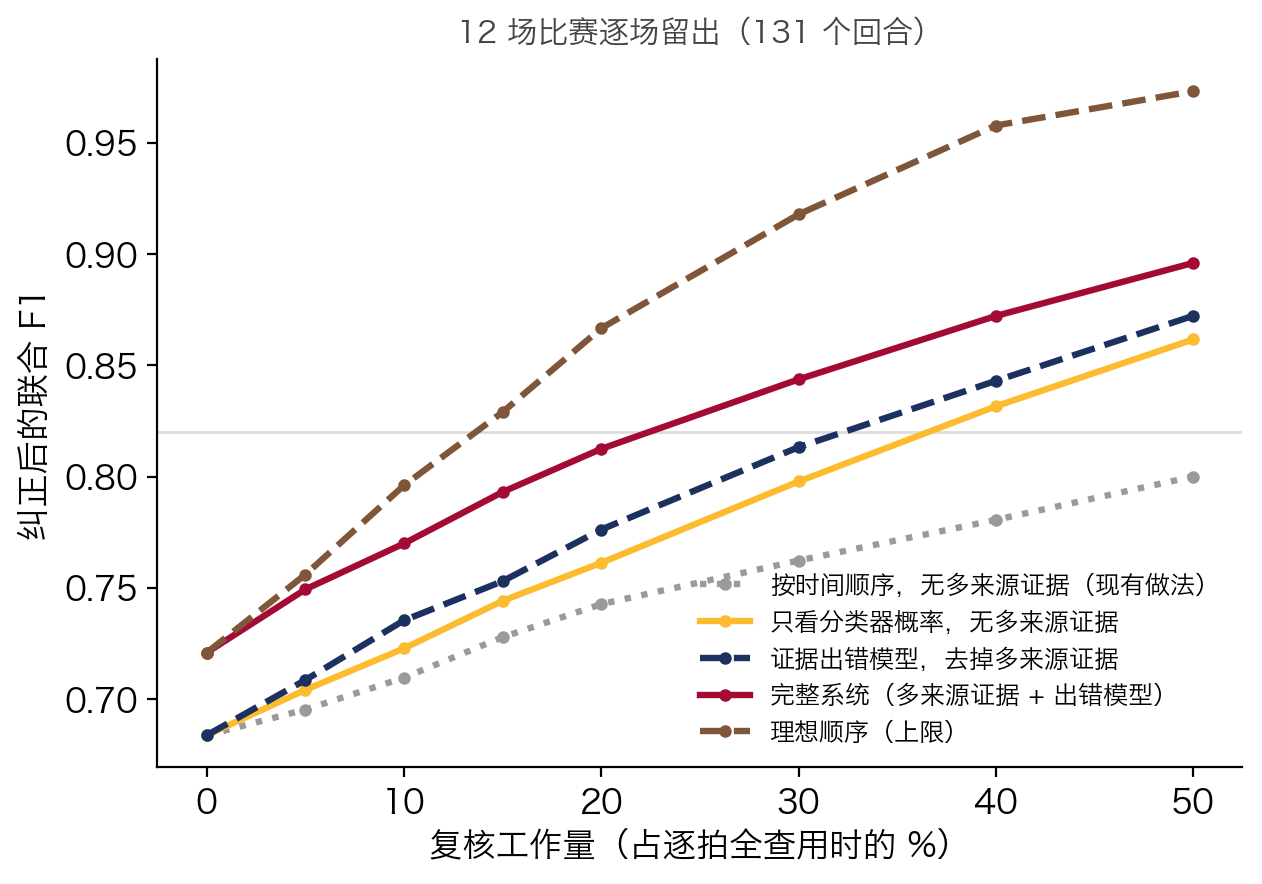
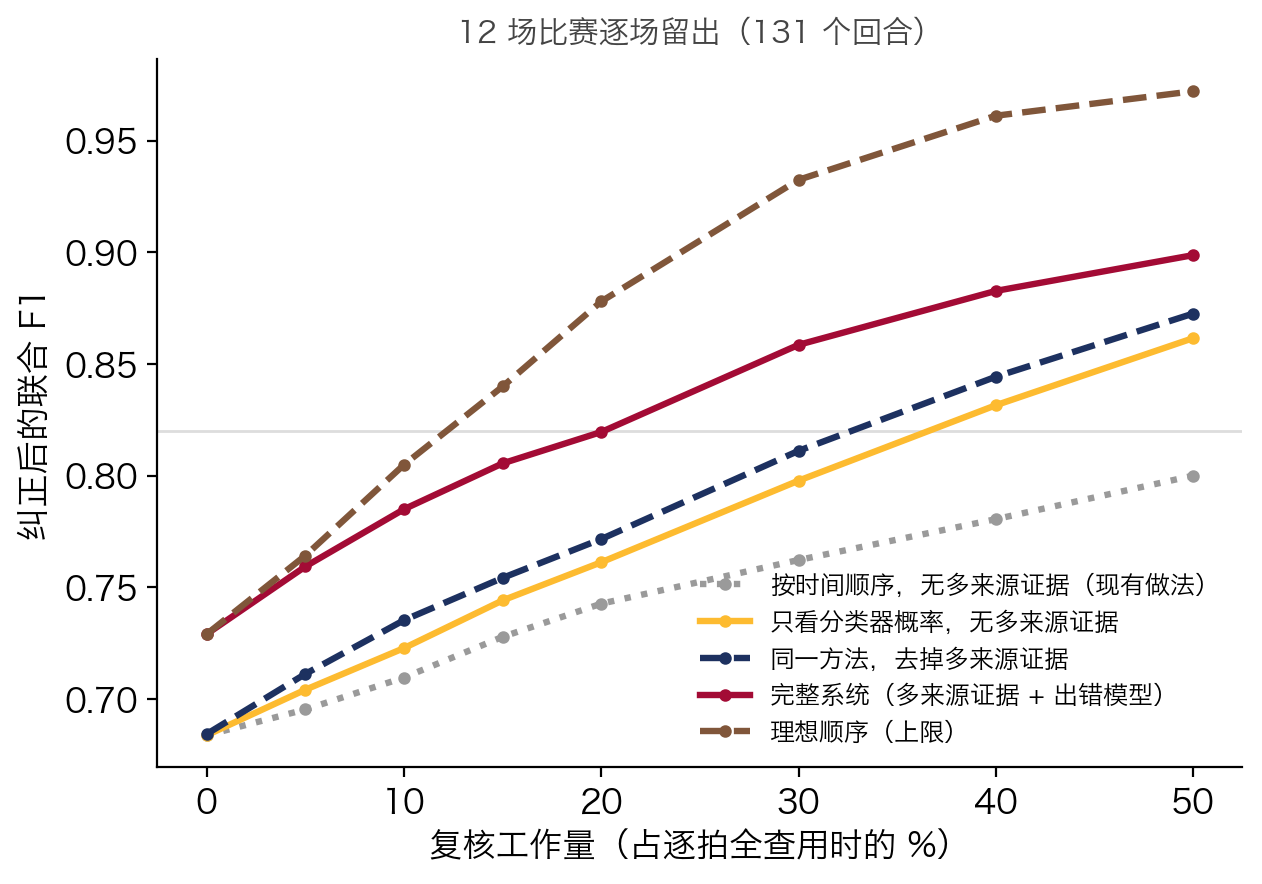
BFMD stroke head as error evidence and a second automatic check before review
- review.py: BST head-input features (BST-0 + BST-CG-AP) and a BFMD stroke-type head
  trained per fold on matches the clip never belongs to (REVIEW_TYPEHEAD=2: evidence for
  the error models only; =1 also in the type model); auto_pass drops likely false hits
  and adds likely real candidates before review, and moved items keep the probability
  that moved them; frozen bundles carry the head and the auto-pass threshold
- verify.py: optional head features in the type model (REVIEW_TYPEHEAD=1)
- review page: auto check on load, "removed/added" counts, "maybe wrongly removed" items
- README: 12-match results of the new combination and the multi-source ablation

diff --git a/static/review.html b/static/review.html
@@ -55,7 +55,7 @@ video{display:block;width:100%;border-radius:12px;background:#183126;aspect-rati
   <div class="stat"><b id="sReviewed">0</b>已核对</div>
   <div class="stat"><b id="sSeconds">0 秒</b>估计用时</div>
   <div class="stat"><b id="sExpected">–</b>预计剩余错误（拍）</div>
-  <div class="stat"><b id="sLog">–</b>记录中的击球</div>
+  <div class="stat"><b id="sLog">–</b>记录中的击球<small id="sAuto" class="muted" style="display:block;font-size:12px"></small></div>
   <div class="stat ref" id="sRef" hidden></div>
 </div>
 <div id="err" role="alert"></div>
@@ -107,10 +107,10 @@ async function loadClips(){const d=await api('/api/review');const c=$('clip');d.
   const q=new URLSearchParams(location.search),want=q.get('clip');if(want)c.value=want;$('research').checked=q.has('research');await load()}
 async function load(){$('err').textContent='';$('evidence').hidden=true;sel=null;$('sExpected').textContent='加载中…';
   try{S=await api('/api/review/'+$('clip').value);$('video').src=S.clip.video;render();if(S.queue.length)select(S.queue[0],false)}catch(e){$('err').textContent=e.message}}
-function render(){$('sReviewed').textContent=S.reviewed;$('sSeconds').textContent=S.review_seconds+' 秒';$('sExpected').textContent=S.expected_errors;$('sLog').textContent=S.log_size;
+function render(){$('sReviewed').textContent=S.reviewed;$('sSeconds').textContent=S.review_seconds+' 秒';$('sExpected').textContent=S.expected_errors;$('sLog').textContent=S.log_size;$('sAuto').textContent=S.auto&&(S.auto.removed||S.auto.added)?`自动复查已删 ${S.auto.removed}、补 ${S.auto.added}`:'';
   $('sRef').hidden=!$('research').checked;$('sRef').textContent=`与 BFMD 参考答案对比：联合 F1 = ${S.reference.joint_f1}`;
   const q=S.queue.slice(0,8).map(i=>S.items[i]);
-  $('queue').innerHTML=q.length?q.map(e=>`<li data-i="${e.index}" class="${sel===e.index?'sel':''}"><span>${e.time.toFixed(1)}s · ${e.inlog?nm(e.label):'可能漏掉的一拍'}</span><span class="chip ${e.inlog?(e.reason==='球种可能判错'?'type':e.reason==='时刻可能记偏'?'time':''):'miss'}">${e.reason}</span></li>`).join(''):'<li>没有需要核对的了</li>';
+  $('queue').innerHTML=q.length?q.map(e=>`<li data-i="${e.index}" class="${sel===e.index?'sel':''}"><span>${e.time.toFixed(1)}s · ${e.inlog?nm(e.label):e.auto==='removed'?'自动复查删去的一拍':'可能漏掉的一拍'}</span><span class="chip ${e.inlog?(e.reason==='球种可能判错'?'type':e.reason==='时刻可能记偏'?'time':''):'miss'}">${e.reason}</span></li>`).join(''):'<li>没有需要核对的了</li>';
   $('queue').querySelectorAll('li[data-i]').forEach(li=>li.onclick=()=>select(+li.dataset.i));
   drawTimeline();if(sel!==null)showEvidence()}
 function drawTimeline(){const svg=$('timeline'),W=svg.clientWidth||800,rows=Object.keys(S.routes),H=46+rows.length*12+18,L=86;svg.setAttribute('viewBox',`0 0 ${W} ${H}`);svg.setAttribute('height',H);
@@ -127,7 +127,7 @@ function play(t){const v=$('video');clearInterval(loop);v.currentTime=Math.max(0
 function bars(list){return list.map(([k,p])=>`<div><span>${nm(k)}</span><span>${Math.round(p*100)}%</span></div>`).join('')||'<div class="muted">无</div>'}
 function showEvidence(){const e=S.items[sel];$('evidence').hidden=false;
   const seq=S.items.filter(x=>x.inlog).sort((a,b)=>a.time-b.time),pos=seq.findIndex(x=>x.index===e.index),prev=seq.filter(x=>x.time<e.time).pop(),next=seq.find(x=>x.time>e.time);
-  $('evTitle').innerHTML=`${e.time.toFixed(2)}s · ${e.inlog?`第 ${pos+1} 拍，判为「${nm(e.label)}」`:'可能漏掉的一拍'} · ${e.hitter==='near'?'近端':'远端'}球员 ${e.locked?'<span class="chip">已核对</span>':e.reason?`<span class="chip">${e.reason}</span>`:''}`;
+  $('evTitle').innerHTML=`${e.time.toFixed(2)}s · ${e.inlog?`第 ${pos+1} 拍，判为「${nm(e.label)}」${e.auto==='added'?'（自动复查补上）':''}`:e.auto==='removed'?'自动复查删去的一拍':'可能漏掉的一拍'} · ${e.hitter==='near'?'近端':'远端'}球员 ${e.locked?'<span class="chip">已核对</span>':e.reason?`<span class="chip">${e.reason}</span>`:''}`;
   const P=(t,p)=>p==null?'':`<div class="prob"><span style="width:118px">${t}</span><span class="track"><span class="fill" style="display:block;width:${Math.round(p*100)}%"></span></span><span>${Math.round(p*100)}%</span></div>`;
   $('evProbs').innerHTML=e.inlog?P('不是击球的可能',e.p_false)+P('其中：时刻记偏',e.p_mistimed)+P('球种判错的可能',e.p_type):P('确实有一拍的可能',e.p_real);
   $('evDets').innerHTML=`<span class="muted" style="width:100%">${Object.keys(e.detectors).length} 个找拍器中 ${e.support} 个在这里报了击球</span>`+Object.entries(e.detectors).map(([k,v])=>{const[p,m]=k.split('__');return `<span class="det ${v?'on':''}">${p==='tn3'?'TNv3':'RV'} ${RNAMES[m]||m}</span>`}).join('');

diff --git a/benchmarks/bfmd/review.py b/benchmarks/bfmd/review.py
@@ -37,6 +37,43 @@ def cached_candidates(clip):
         _CANDS[clip['clip_id']]=cs
     return copy.deepcopy(_CANDS[clip['clip_id']])
 
+TYPEHEAD=os.environ.get('REVIEW_TYPEHEAD','0') in ('1','2')  # BFMD stroke-type head on BST features: 1 in the type model and the error models, 2 error models only
+_EMB={}
+def bst_embeddings(clip):
+    """Input of the BST-0 and BST-CG-AP classification heads (300 + 300) in a +-1 s window: at every candidate frame, and at every
+    typed reference contact (the latter only to train the BFMD head on training matches)."""
+    k=clip['clip_id']
+    if k not in _EMB:
+        from specialist_bst import SpecialistBST
+        from benchmarks.bfmd.study_hits import calibration
+        pf=STUDY/'perception'/k;dense=read(pf/'dense_pose.json');ball=read(pf/'tracknetv3/trajectory.json')
+        m=SpecialistBST(dense,ball,calibration(read(STUDY/'court_review.json')['matches'][clip['youtube_id']]['corners_TL_TR_BL_BR']));grab={}
+        hooks=[m.model.mlp_head.register_forward_pre_hook(lambda mod,inp:grab.__setitem__(0,inp[0][0].detach().numpy().copy())),
+               m.full_model.mlp_head.register_forward_pre_hook(lambda mod,inp:grab.__setitem__(1,inp[0][0].detach().numpy().copy()))]
+        n=len(dense['frames'])
+        def emb(f):
+            f=min(max(int(f),0),n-1);v,_=m.inputs({'frame_index':f,'start_frame':max(0,f-30),'end_frame':min(n-1,f+30),'peak_time':dense['frames'][f]['source_time']})
+            m.predict(v);return np.r_[grab[0],grab[1]]
+        mm=next(x for x in read(_R.parent/'03_数据/独立基准/BFMD/manifest.json')['matches'] if x['match_id']==clip['match_id'])
+        lo=clip['offset_seconds'];hi=lo+clip['duration_seconds']
+        _EMB[k]=({x['frame']:emb(x['frame']) for x in _CANDS[k]},[(emb(round((h['time']-lo)*30)),h['label']) for h in mm['hits'] if lo<=h['time']<hi and h['label'] in TYPES])
+        for h in hooks:h.remove()
+    return _EMB[k]
+
+def fit_head(clips):
+    """BFMD stroke-type head (softmax) on BST features at the reference contacts of the given clips."""
+    rows=[r for c in clips for r in bst_embeddings(c)[1]]
+    return Softmax().fit([e for e,_ in rows],[t for _,t in rows],l2=10.,steps=600)
+
+def attach_heads(clips,data,m,cache):
+    """Head probabilities on every candidate; a clip of match j is scored by a head that saw neither j nor the held-out match m."""
+    for c in clips:
+        j=c['youtube_id'];excl=frozenset({m,j})
+        if excl not in cache:cache[excl]=fit_head([d for d in clips if d['youtube_id'] not in excl])
+        E=bst_embeddings(c)[0]
+        for cs in (_CANDS[c['clip_id']],data[c['clip_id']][0]):
+            for x,p in zip(cs,proba(cache[excl],[E[x['frame']] for x in cs]) if cs else []):x['head']=p
+
 _ROUTES={}
 def route_types(clip,f):
     """Stroke-type evidence from every detector route that fired within +-3 frames: mean BST probabilities and each route's top type."""
@@ -184,7 +221,8 @@ def evidence_x(r,x):
     hitter alternation, timing evidence (sound / racket away from the logged moment) and stroke-type agreement across routes."""
     post=x.get('post');post=post if post is not None else np.full(len(TYPES),1/len(TYPES))
     lab=TYPES.index(x['label']) if x.get('label') else int(np.argmax(post));rm,rt=x['rtype']
-    return r.features(x)+[x.get('viol',0.),x['tev'][1],x['tev'][2],float(-(post*np.log(post+1e-9)).sum()),float(rm[lab]),float(np.mean([t==lab for t in rt])) if rt else .5]
+    head=[float(x['head'][lab]),float(int(np.argmax(x['head']))==lab)] if x.get('head') is not None else []
+    return r.features(x)+[x.get('viol',0.),x['tev'][1],x['tev'][2],float(-(post*np.log(post+1e-9)).sum()),float(rm[lab]),float(np.mean([t==lab for t in rt])) if rt else .5]+head
 
 # evidence_x columns grouped for ablations
 RALLY_COLS=(8,16,17,18,19,23)          # gap to neighbours, same-side neighbours, rhythm, hitter-alternation violation
@@ -226,6 +264,15 @@ def crossfit_error_models(train_clips,data,types,byid):
         rallies+=[Rally(c,model,th,tmodel,flat,0) for c in train_clips if c['youtube_id']==j]
     return {'all':ErrorModels().fit(rallies),'no rally structure':ErrorModels(RALLY_COLS).fit(rallies),'no new sources':ErrorModels(SOURCE_COLS).fit(rallies)}
 
+def error_probs(r,x,E,f,up,timing=True):
+    """(P false, P mistimed, P wrong type | real, P real if left out) for candidate x; items moved by auto_pass keep the probability that moved them."""
+    auto=x.get('auto')
+    if x['inlog']:
+        pf=up(auto[1]) if auto and auto[0]=='added' else up(E.p('fp',f))
+        pm=min(pf,up(E.p('mt',f))) if timing and not auto else 0.
+        return pf,pm,up(E.p('ty',f)),None
+    return None,None,None,up(auto[1]) if auto and auto[0]=='removed' else up(E.p('miss',f))
+
 def priority(r,x,policy,em=None):
     """Expected joint-F1 gain per second. 'confidence' = typical tool: logged hits only, lowest confidence first.
     'gain' = calibrated agent confidences (they already fuse the multi-detector evidence), F1-weighted gains,
@@ -235,10 +282,9 @@ def priority(r,x,policy,em=None):
         return (1-min(x['p_hit'],max(x['post'])))/COST['hit'] if x['inlog'] else None
     if policy=='evidence':  # error models over all evidence; reviewed neighbours raise / lower the odds
         up=lambda q:x['odds']*q/(1-q+1e-9)/(1+x['odds']*q/(1-q+1e-9));E=em['E'];f=evidence_x(r,x)
-        if x['inlog']:
-            pf=up(E.p('fp',f));pm=min(pf,up(E.p('mt',f))) if r.retime and not em.get('no_timing') else 0.;pt=up(E.p('ty',f))
-            return (pm*GAIN['retime']+(pf-pm)*GAIN['false']+(1-pf)*pt*GAIN['type'])/(COST['hit']+pm*COST['retime'])
-        return up(E.p('miss',f))*GAIN['miss']/COST['miss']
+        pf,pm,pt,pr=error_probs(r,x,E,f,up,r.retime and not em.get('no_timing'))
+        if x['inlog']:return (pm*GAIN['retime']+(pf-pm)*GAIN['false']+(1-pf)*pt*GAIN['type'])/(COST['hit']+pm*COST['retime'])
+        return pr*GAIN['miss']/COST['miss']
     if policy=='single_hit':return 1-min(1.,x['x'][9]) if x['inlog'] else None
     if policy=='single_type':return 1-x['x'][4] if x['inlog'] else None
     if policy=='single':  # typical tool: the detector's own hit score and the classifier's top probability, logged hits only
@@ -256,10 +302,10 @@ def priority(r,x,policy,em=None):
     pm=float(em['miss'].predict([[x['p_hit'],x['racket']]])[0]) if em and em.get('miss') else x['p_hit']  # racket contact evidence for missed hits
     return up(pm)*GAIN['miss']/COST['miss']
 
-def simulate(rallies,policy,em=None,propagate=False):
+def simulate(rallies,policy,em=None,propagate=False,full=None):
     """em: {'lr': {True: odds factor if the reviewed item was wrong, False: if right}} for suspicion propagation."""
     """Review in priority order; return pooled (tp,fp,fn) after spending each GRID share of the full-review cost."""
-    full=sum(len(r.log()) for r in rallies)*COST['hit']
+    full=full or sum(len(r.log()) for r in rallies)*COST['hit']  # override: keep the review budget of the original log
     counts=lambda:tuple(map(sum,zip(*[r.counts() for r in rallies])))
     out=[counts()];spent=0.;g=1
     items=[(r,i) for r in rallies for i,x in enumerate(r.c)]
@@ -333,6 +379,18 @@ def parity_model(rallies):
             if x['inlog'] and r.y[k] is not None:X.append([1-min(x['p_hit'],max(x['post'])),x.get('viol',0.)]);Y.append(float(r.wrong(k)))
     return Logistic().fit(X,Y,l2=1.)
 
+def auto_pass(r,E,th=.5):
+    """Second automatic verification before review: drop logged hits the error models call false, add left-out candidates they call real."""
+    drop=[];add=[]
+    for x in r.c:
+        f=evidence_x(r,x)
+        if x['inlog'] and (q:=E.p('fp',f)-E.p('mt',f))>th:drop.append((x,q))
+        elif not x['inlog'] and (q:=E.p('miss',f))>th:add.append((x,q))
+    # a moved item keeps the probability that moved it: P(real) = 1 - P(spurious) for a dropped hit, P(false) = 1 - P(real) for an added one
+    for x,q in drop:x['inlog']=False;x['auto']=('removed',1-q)
+    for x,q in add:x['inlog']=True;x['auto']=('added',1-q)
+    if drop or add:r.decode()
+
 def run_fold(train_clips,test_clips,model,th,tmodel,lam,E=None):
     flat=np.full((len(TYPES),len(TYPES)),1/len(TYPES))
     tr=[Rally(c,model,th,tmodel,flat,0) for c in train_clips];T=transitions(tr);lr={'lr':suspicion_lr(tr)};mm=miss_model(tr);pm=parity_model(tr);out={'_lr':lr['lr']}
@@ -343,6 +401,11 @@ def run_fold(train_clips,test_clips,model,th,tmodel,lam,E=None):
                             ('evidence - timing in ranking','evidence',{'E':E['all'],'no_timing':True},False)]
     for name,pol,em,prop in runs+[('oracle','oracle',None,False)]:
         out[name]=simulate([Rally(c,model,th,tmodel,T,lam) for c in test_clips],pol,em,prop)
+    if E is not None:  # second automatic pass by the error models, then the same review budget as the original log
+        for name,pol,em in [('auto pass + evidence','evidence',{'E':E['all']}),('auto pass + oracle','oracle',None)]:
+            rs=[Rally(c,model,th,tmodel,T,lam) for c in test_clips];full=sum(len(r.log()) for r in rs)*COST['hit']
+            for r in rs:auto_pass(r,E['all'])
+            out[name]=simulate(rs,pol,em,False,full)
     return out
 
 def f1(c):tp,fp,fn=c;return 2*tp/(2*tp+fp+fn)
@@ -356,13 +419,15 @@ if __name__=='__main__':
         clips=[c for c in read(STUDY/'clips.json')['clips'] if (ROUTES/c['clip_id']/f'{PRIMARY}.json').exists()]
         byid={c['clip_id']:c for c in clips};data={}
         for c in clips:cs=cached_candidates(c);data[c['clip_id']]=(cs,truth_labels(c,cs))
-        types={k:truth_types(byid[k],data[k][0]) for k in byid};bundles={}
+        types={k:truth_types(byid[k],data[k][0]) for k in byid};bundles={};hcache={}
         for m in sorted({c['youtube_id'] for c in clips}):
+            if TYPEHEAD:attach_heads(clips,data,m,hcache)
             train=[c for c in clips if c['youtube_id']!=m];model,th,tmodel=fit_both([c['clip_id'] for c in train],data,types,byid)
             E=crossfit_error_models(train,data,types,byid)['all'];flat=np.full((len(TYPES),)*2,1/len(TYPES))
             tr=[Rally(c,model,th,tmodel,flat,0) for c in train]
             bundles[m]={'hit_model':model.packet(),'threshold':th,'type_model':{'W':tmodel.W.tolist(),'mu':tmodel.mu.tolist(),'sd':tmodel.sd.tolist()},
-                        'error_models':E.packet(),'suspicion_lr':{str(k):v for k,v in suspicion_lr(tr).items()},'train_matches':sorted({c['youtube_id'] for c in train})}
+                        'error_models':E.packet(),'auto_pass':.5,
+                        'head':({'W':hcache[frozenset({m})].W.tolist(),'mu':hcache[frozenset({m})].mu.tolist(),'sd':hcache[frozenset({m})].sd.tolist()} if TYPEHEAD else None),'suspicion_lr':{str(k):v for k,v in suspicion_lr(tr).items()},'train_matches':sorted({c['youtube_id'] for c in train})}
             print('bundle',m,flush=True)
         save(STUDY/'frozen_review_lomo12.json',{'bundles':bundles,'cost':COST,'gain':GAIN,'code_sha256':code_hashes(),
                                                'note':'For clips of match m use bundles[m]: agent and error models fitted on the other 11 matches.'})
@@ -377,13 +442,14 @@ if __name__=='__main__':
                 for x in _CANDS[c['clip_id']]:
                     x['x'][1]=x['x'][10]=x['x'][11]=0.;x['tev']=(x['frame'],0.,0.);x['rtype']=(np.full(len(TYPES),1/len(TYPES)),[])
             cs=cached_candidates(c);data[c['clip_id']]=(cs,truth_labels(c,cs))
-        types={k:truth_types(byid[k],data[k][0]) for k in byid};folds=[]
+        types={k:truth_types(byid[k],data[k][0]) for k in byid};folds=[];hcache={}
         for m in sorted({c['youtube_id'] for c in clips}):
             train=[c for c in clips if c['youtube_id']!=m];test=[c for c in clips if c['youtube_id']==m]
+            if TYPEHEAD:attach_heads(clips,data,m,hcache)
             model,th,tmodel=fit_both([c['clip_id'] for c in train],data,types,byid)
             E=crossfit_error_models(train,data,types,byid)
             folds.append(run_fold(train,test,model,th,tmodel,0,E));print('fold',m,len(test),'clips',flush=True)
-        res=pool(folds);save(STUDY/f"review_lomo12{'_ablate_'+ablate if ablate else ''}{'' if RETIME_ON else '_noretime'}.json",{'grid_share':GRID,'curves':res,'cost':COST,'clips':len(clips),
+        res=pool(folds);save(STUDY/f"review_lomo12{'_ablate_'+ablate if ablate else ''}{'' if RETIME_ON else '_noretime'}{'_typehead'+os.environ['REVIEW_TYPEHEAD'] if TYPEHEAD else ''}.json",{'grid_share':GRID,'curves':res,'cost':COST,'clips':len(clips),
                                                         'per_match':{m:{k:v for k,v in f.items() if not k.startswith('_')} for m,f in zip(sorted({c['youtube_id'] for c in clips}),folds)}})
         print('share         ',' '.join(f'{g:5.2f}' for g in GRID))
         for k,v in res.items():print(f"{k:14s}",' '.join(f'{x:.3f}' for x in v))

diff --git a/benchmarks/bfmd/review_web.py b/benchmarks/bfmd/review_web.py
@@ -23,7 +23,9 @@ def bundle(match):
         b=rv.read(rv.STUDY/'frozen_review_lomo12.json')['bundles'][match]
         m=rv.Logistic();m.w,m.mu,m.sd=(np.array(b['hit_model'][k]) for k in ['w','mu','sd'])
         t=rv.Softmax();t.W,t.mu,t.sd=(np.array(b['type_model'][k]) for k in ['W','mu','sd'])
-        _models[match]={'model':m,'th':b['threshold'],'tmodel':t,'E':rv.ErrorModels.load(b['error_models']),
+        h=None
+        if b.get('head'):h=rv.Softmax();h.W,h.mu,h.sd=(np.array(b['head'][k]) for k in ['W','mu','sd'])
+        _models[match]={'model':m,'th':b['threshold'],'tmodel':t,'E':rv.ErrorModels.load(b['error_models']),'head':h,'auto':b.get('auto_pass'),
                         'lr':{k=='True':v for k,v in b['suspicion_lr'].items()},'trans':np.full((len(rv.TYPES),)*2,1/len(rv.TYPES))}
     return _models[match]
 
@@ -72,7 +74,13 @@ def session(clip_id):
         actions=json.loads(f.read_text())['actions'] if f.exists() else []
         key=(clip_id,len(actions))
         if key not in _cache:
-            m=bundle(c['youtube_id']);r=rv.Rally(c,m['model'],m['th'],m['tmodel'],m['trans'],0)
+            m=bundle(c['youtube_id']);cs=rv.cached_candidates(c);k=c['clip_id']
+            if m['head'] is not None and cs and rv._CANDS[k][0].get('head') is None:  # BFMD stroke-type head on BST features (evidence for the error models)
+                emb=rv.bst_embeddings(c)[0]
+                for x,p in zip(rv._CANDS[k],rv.proba(m['head'],[emb[x['frame']] for x in rv._CANDS[k]])):x['head']=p
+            r=rv.Rally(c,m['model'],m['th'],m['tmodel'],m['trans'],0);before={i for i,x in enumerate(r.c) if x['inlog']}
+            if m['auto'] is not None:rv.auto_pass(r,m['E'],m['auto'])  # second automatic check before the reviewer sees the log
+            after={i for i,x in enumerate(r.c) if x['inlog']};r.auto={'removed':len(before-after),'added':len(after-before)}
             for a in actions:apply(r,a['index'],a['action'],a.get('label'),a.get('time'))
             _cache.clear();_cache[key]=r
         return c,_cache[key],actions
@@ -102,11 +110,11 @@ def evidence(r,i,routes,xy):
     agree={k:any(abs(g-f)<=WIN for g in v) for k,v in routes.items()}
     post=dict(zip(rv.TYPES,x['post'])) if x.get('post') is not None else {}
     up=lambda q:x['odds']*q/(1-q+1e-9)/(1+x['odds']*q/(1-q+1e-9));E=bundle(r.clip['youtube_id'])['E'];fe=rv.evidence_x(r,x)
-    pf=up(E.p('fp',fe)) if x['inlog'] else None;pm=min(pf,up(E.p('mt',fe))) if x['inlog'] else None
+    pf,pm,pt,pr=rv.error_probs(r,x,E,fe,up)
     ev={'index':i,'time':round(x['time'],3),'frame':f,'inlog':x['inlog'],'locked':x['locked'],'retimed':bool(x.get('retimed')),'label':x['label'],
         'hitter':'near' if x['traj'][14]>.5 else 'far','p_hit':round(x['p_hit'],3),
         'p_false':round(pf,3) if x['inlog'] else None,'p_mistimed':round(pm,3) if x['inlog'] else None,
-        'p_type':round(up(E.p('ty',fe)),3) if x['inlog'] else None,'p_real':round(up(E.p('miss',fe)),3) if not x['inlog'] else None,
+        'p_type':round(pt,3) if x['inlog'] else None,'p_real':round(pr,3) if not x['inlog'] else None,'auto':x['auto'][0] if x.get('auto') else None,
         'racket':round(float(np.expm1(x['racket'])),2),
         'sound':round(float(np.expm1(x['x'][11])),2),
         'suggest_time':round(x['tev'][0]/30,3) if abs(x['tev'][0]-f)>3 and x['tev'][1]>=SUGGEST else None,'suggest_ratio':round(float(np.exp(x['tev'][1])),1),
@@ -119,7 +127,7 @@ def evidence(r,i,routes,xy):
         'path_start':max(0,f-15)}
     pr=rv.priority(r,x,'evidence',{'E':E});ev['priority']=round(pr,4) if pr is not None else None
     if x['locked']:ev['reason']=None
-    elif not x['inlog']:ev['reason']='可能漏了一拍'
+    elif not x['inlog']:ev['reason']='可能被误删' if x.get('auto') else '可能漏了一拍'
     else:  # the error kind with the largest expected joint-F1 gain
         g={'时刻可能记偏':pm*rv.GAIN['retime'],'可能不是击球':(pf-pm)*rv.GAIN['false'],'球种可能判错':(1-pf)*ev['p_type']*rv.GAIN['type']}
         ev['reason']=max(g,key=g.get)
@@ -149,7 +157,7 @@ def state(clip_id):
     return {'clip':{'clip_id':clip_id,'match':c['match_id'],'duration':c['duration_seconds'],'video':f'/review-video/{clip_id}'},
             'routes':{k:[round(v/30,3) for v in vs] for k,vs in routes.items()},'items':items,'queue':[e['index'] for e in queue],
             'reviewed':len(actions),'review_seconds':round(sum(cost(a,actions[k-1] if k else None) for k,a in enumerate(actions)),1),
-            'expected_errors':round(expected,2),'log_size':len(log),
+            'expected_errors':round(expected,2),'log_size':len(log),'auto':r.auto,
             'reference':{'joint_f1':round(2*tp/(2*tp+fp+fn),3) if 2*tp+fp+fn else None,'note':'BFMD 参考答案，仅研究演示'},
             'types':rv.TYPES}
 

diff --git a/benchmarks/bfmd/verify.py b/benchmarks/bfmd/verify.py
@@ -21,6 +21,7 @@ STUDY=ROOT.parent/'03_数据/独立基准/BFMD/pipeline_study'
 VARIANT=os.environ.get('BFMD_VARIANT','v3');ROUTES=STUDY/f'routes_{VARIANT}'
 PRIMARY='tn3__gru_shared';WIN=3;ADD_SUPPORT=3
 USE_ALT=os.environ.get('VERIFY_ALT','1')=='1'  # author-window BST re-check tool
+HEAD_IN_TYPE=os.environ.get('REVIEW_TYPEHEAD','0')=='1'  # 2: the BFMD head is evidence for the error models only
 
 def read(p):return json.loads(Path(p).read_text())
 def save(p,v):Path(p).parent.mkdir(parents=True,exist_ok=True);Path(p).write_text(json.dumps(v,ensure_ascii=False,indent=1,allow_nan=False)+'\n')
@@ -152,6 +153,7 @@ def type_x(kept,j,alt=None):
     """BST probs (both), flight, and neighbouring candidates' BST probs as rally context."""
     c=kept[j];p0,p1=c['probs'];x=type_vec(p0)+(type_vec(p1) if p1 else type_vec(p0))+c['traj']
     if alt is not None:x+=type_vec(alt[j][0])+type_vec(alt[j][1])  # author-window re-check
+    if c.get('head') is not None and HEAD_IN_TYPE:x+=list(c['head'])+list(c['rtype'][0])  # BFMD head on BST features; BST averaged over detector routes
     for k in (j-1,j+1):
         nb=kept[k] if 0<=k<len(kept) and abs(kept[k]['time']-c['time'])<=2.5 else None
         x+=type_vec(nb['probs'][0]) if nb else [0.]*len(TYPES)
